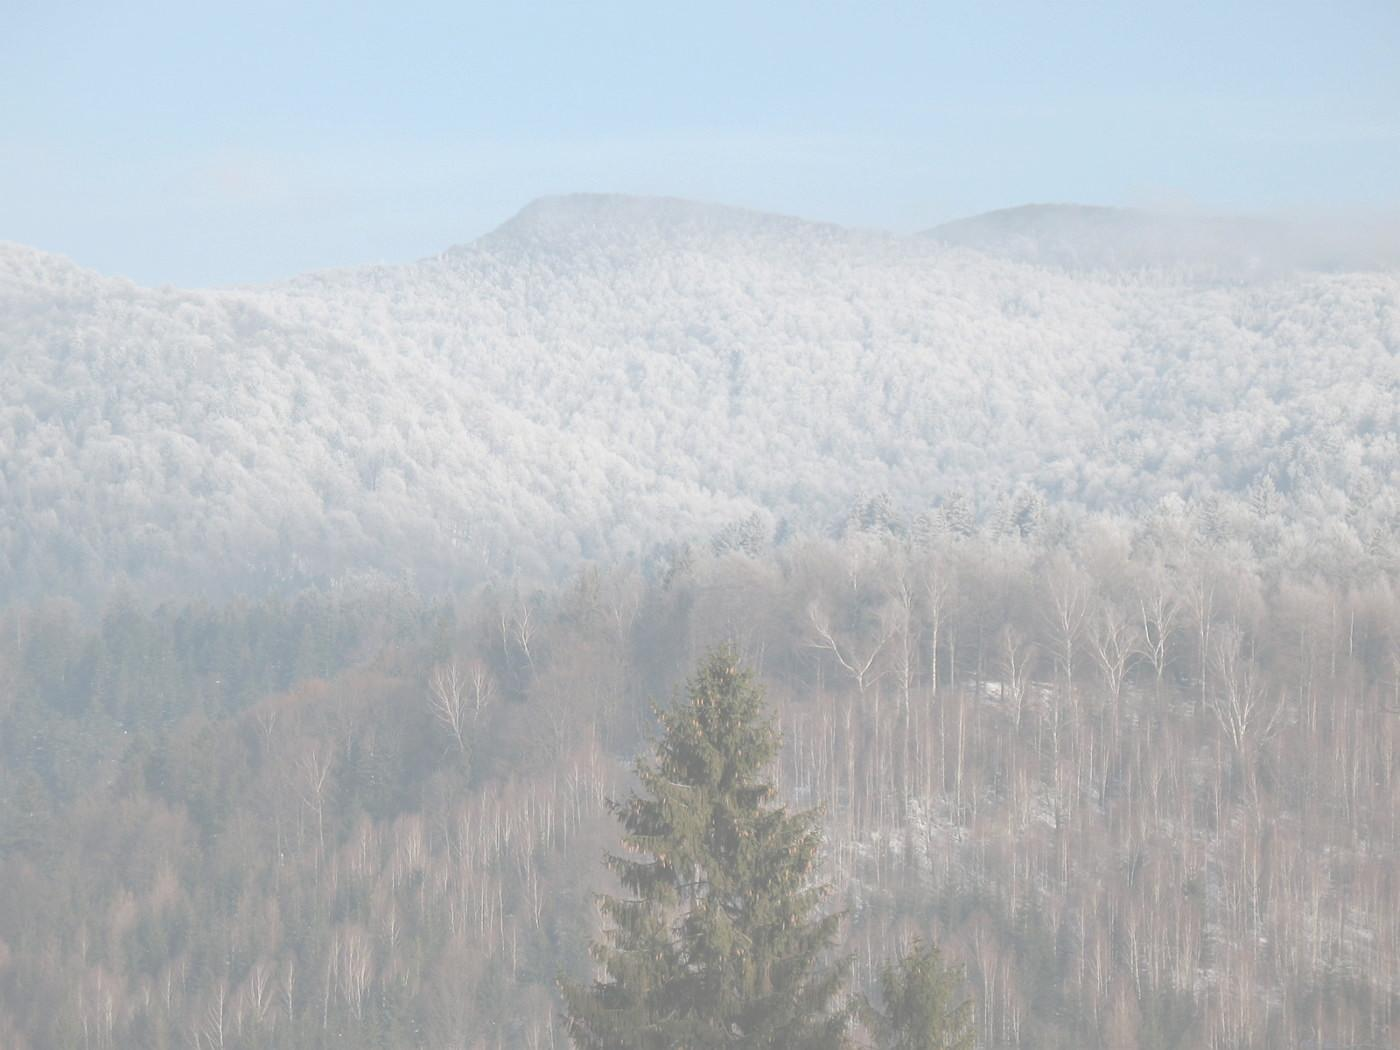
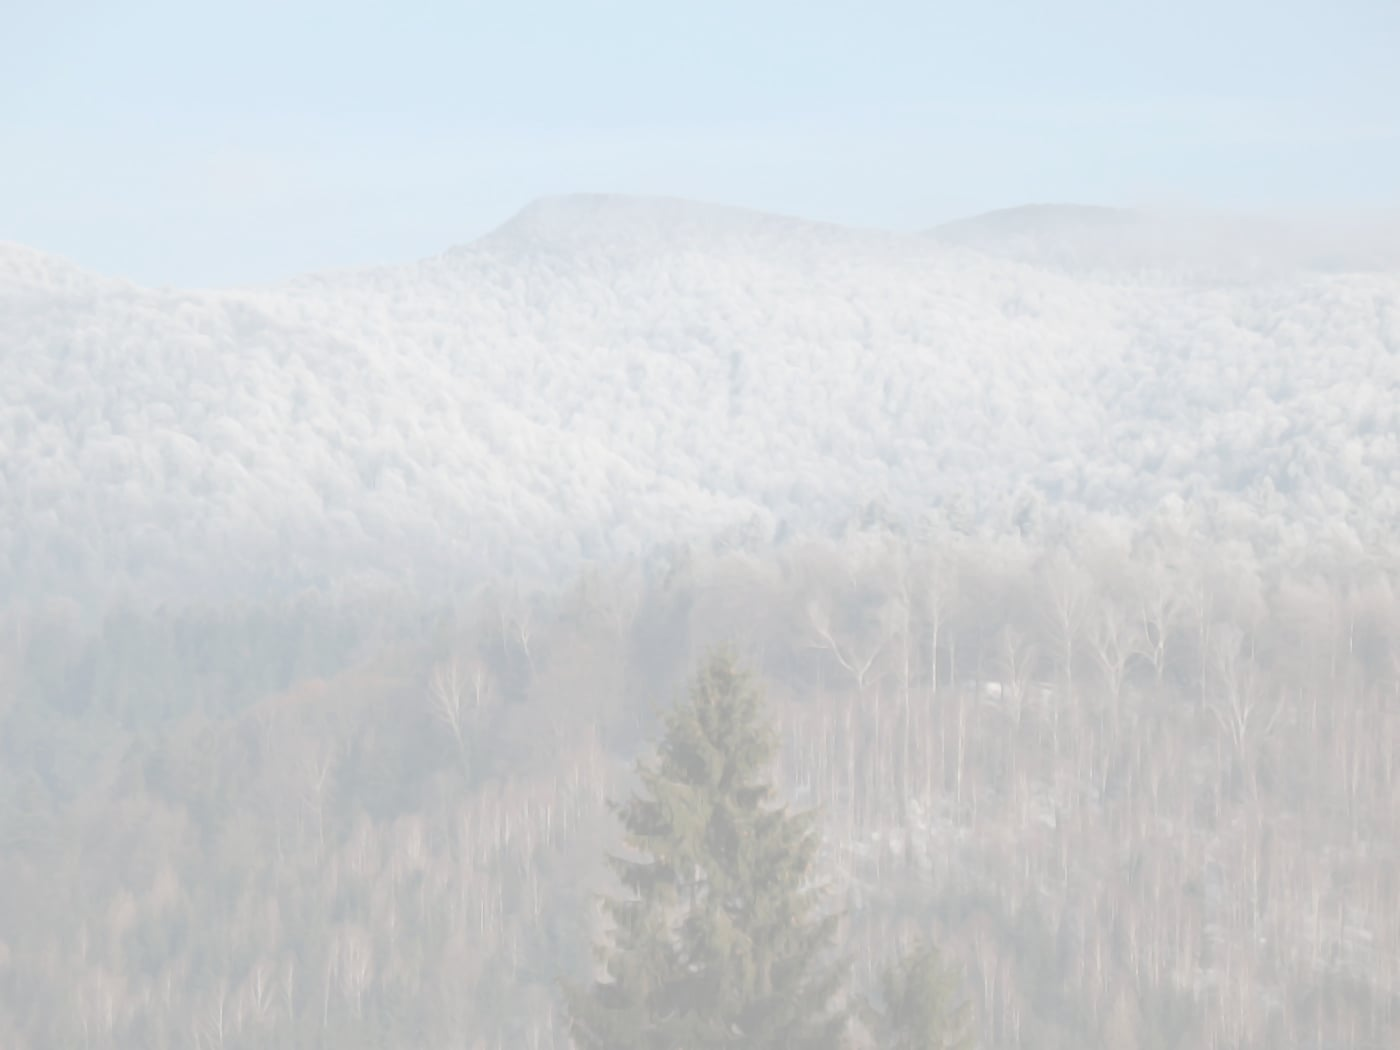
Change background images of themes
Fixes #57

diff --git a/public/assets/themes.css b/public/assets/themes.css
@@ -1,7 +1,7 @@
 /* theme — bieszczady */
 
 .theme-bieszczady .customizable-background {
-    background: #D1D1D1 url('themes/bieszczady.jpg') no-repeat center / cover fixed;
+    background: #E1E1E1 url('themes/bieszczady.jpg') no-repeat center / cover fixed;
 }
 .theme-bieszczady .customizable-color {
     color: #000;
@@ -14,10 +14,10 @@
 }
 
 /* theme — wood */
-/* http://blog.pogotowie3d.pl/index.php/darmowa-tekstura-drewna-olcha-sliwa-wallis/ */
+/* https://pixnio.com/textures-and-patterns/wood-texture/texture-old-retro-dirty-wood-knot */
 
 .theme-wood .customizable-background {
-    background: #C89776 url('themes/wood.jpg') repeat fixed;
+    background: #F2DAB6 url('themes/wood.jpg') no-repeat center / cover fixed;
 }
 .theme-wood .customizable-color {
     color: #000;
@@ -36,14 +36,17 @@
 /* http://www.publicdomainpictures.net/view-image.php?image=25019&picture=dark-clouds-and-rainbow/ */
 
 .theme-rainbow .customizable-background {
-    background: #919692 url('themes/rainbow.jpg') no-repeat center / cover fixed;
+    background: #D8DAD7 url('themes/rainbow.jpg') no-repeat center / cover fixed;
 }
 .theme-rainbow .customizable-color {
-    color: #0B0024;
-    text-shadow: 0 0 2px #999;
+    color: #060015;
+    text-shadow: 0 0 2px #AAA;
 }
 .theme-rainbow .rds-popup {
     text-shadow: none;
+}
+.theme-rainbow table.radio-table tbody tr:hover, .theme-rainbow table.radio-table tbody tr:focus-within {
+    background: rgba(255,255,255, 0.35);
 }
 .theme-rainbow table.radio-table td, .radio-table-details dl, .radio-table-details dd {
     border-color: rgba(0,0,0, 0.1);
@@ -56,11 +59,11 @@
 /* http://magdeleine.co/photo-by-caleb-ralston-n-491/ */
 
 .theme-night .customizable-background {
-    background: #314b5e url('themes/night.jpg') no-repeat center / cover fixed;
+    background: #2A3944 url('themes/night.jpg') no-repeat center / cover fixed;
 }
 .theme-night .customizable-color {
     color: #eee;
-    text-shadow: 0 0 2px #111;
+    text-shadow: 0 0 3px #111;
 }
 .theme-night .customizable-color a {
     border-color: rgba(255,255,255, 0.6);
